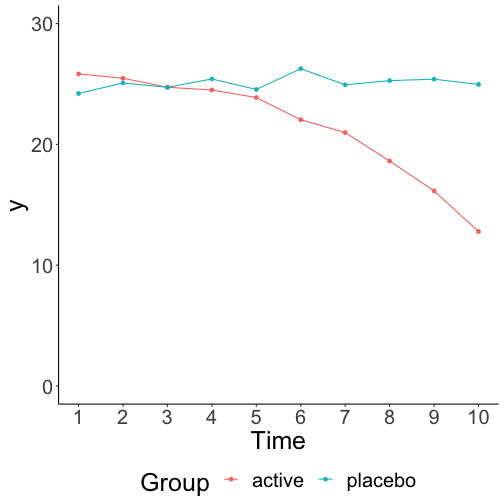
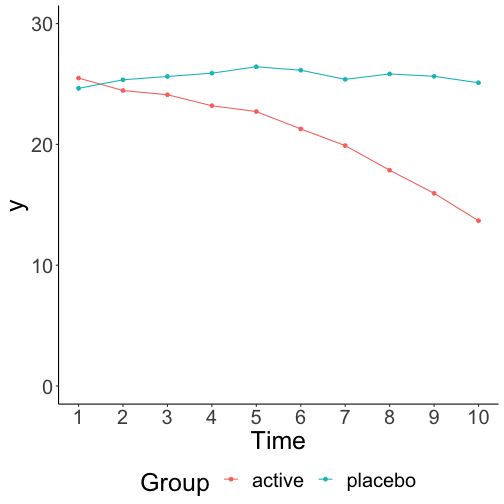
update

Changed region(s): [[0.1488, 0.119, 0.8631, 0.3869], [0.625, 0.119, 0.9524, 0.1786], [0.8631, 0.3869, 0.9524, 0.4762]]

diff --git a/Folien.html b/Folien.html
@@ -111,10 +111,10 @@ lmer(y ~ t * group + (1|id), data = df)
 
 ```
 ##                Estimate Std. Error       df t value Pr(&gt;|t|)
-## (Intercept)      29.023      1.001  197.251  29.005    0.000
-## t                -1.368      0.067 1348.000 -20.464    0.000
-## groupplacebo     -4.340      1.415  197.251  -3.067    0.002
-## t:groupplacebo    1.440      0.095 1348.000  15.241    0.000
+## (Intercept)      27.812      0.943  201.121  29.493    0.000
+## t                -1.263      0.065 1348.000 -19.447    0.000
+## groupplacebo     -2.390      1.334  201.121  -1.792    0.075
+## t:groupplacebo    1.296      0.092 1348.000  14.109    0.000
 ```
 
 * signifikante Überlegenheit der aktiven gegenüber Placebogruppe
@@ -346,8 +346,8 @@ head(data_cluster, 2)
 
 ```
 ##   Item1 Item2 Item3 Item4 Item5 Item6 Item7 Item8 Item9 Item10
-## 1  3.12  3.26  2.71  1.40  2.97  1.79  3.33  0.88  0.94  -1.07
-## 2  2.98  3.27  2.68  1.47  1.54 -0.38  1.95  2.22  1.32   1.07
+## 1  2.95  2.19  2.48  3.97  0.99  1.41  2.17  2.15  0.49   3.50
+## 2  3.06  3.83  3.65  2.31  2.90  1.72  0.93 -0.52  0.51   1.58
 ```
 
 Beispielcode:
@@ -484,16 +484,16 @@ head(df, 10)
 
 ```
 ##    t id        y
-## 1  1  1 22.16084
-## 2  2  1 22.94598
-## 3  3  1 21.40208
-## 4  1  2 23.99123
-## 5  2  2 18.57353
-## 6  3  2 21.47158
-## 7  1  3 23.25675
-## 8  2  3 25.74629
-## 9  3  3 19.46554
-## 10 1  4 31.06219
+## 1  1  1 25.40166
+## 2  2  1 25.57062
+## 3  3  1 15.93133
+## 4  1  2 24.38786
+## 5  2  2 22.21372
+## 6  3  2 14.39663
+## 7  1  3 26.84166
+## 8  2  3 16.81819
+## 9  3  3 26.07055
+## 10 1  4 32.17944
 ```
 ]
 
@@ -576,7 +576,7 @@ class: top, left
 class: top, left
 ### Units of Analysis
 
-#### Lösungsansatz: Time-Series Modeling - Dynamic Time Warping
+#### Time-Series Modeling - Dynamic Time Warping
 
 **Vorteile:**
 
@@ -605,9 +605,9 @@ head(ts_sim_df, 3)
 
 ```
 ##   nodep_V1 nodep_V2 nodep_V3 nodep_V4 nodep_V5   dep_V1   dep_V2   dep_V3   dep_V4   dep_V5
-## 1 6.575727 5.225222 5.097103 9.042683 5.803125 7.673224 6.665698 5.249806 8.576838 6.446484
-## 2 7.170461 6.053103 6.172585 8.913733 6.035214 5.952480 5.821827 6.890124 6.975446 9.118886
-## 3 5.549862 5.560508 7.451713 9.563362 5.772214 6.054278 5.418546 7.456762 6.191524 7.299504
+## 1 6.202435 6.671782 6.487326 5.313489 6.876857 5.534393 5.047133 6.245207 5.580423 8.969506
+## 2 6.600054 5.266929 6.717761 6.080898 6.212038 5.643375 5.726632 6.326248 5.735229 8.453706
+## 3 6.810013 6.798338 5.601576 6.172589 5.288736 5.676489 5.774688 6.038278 5.755343 9.473045
 ```
 
 Beispielcode:
@@ -798,6 +798,27 @@ summary(fit)
 &lt;img src="bilder/sem2.png" width="500px" /&gt;
 ]
 ]
+
+---
+class: top, left
+### Multivariate pattern
+
+#### Netzwerkanalyse
+
+.center[
+&lt;img src="bilder/nets.png" width="1000px" /&gt;
+]
+
+* Analyse psychischer Phänomene auf dem Systemlevel
+
+* Exploration hoch dimensionaler Daten ohne theoretische Vorannahmen (wie EFA, o.ä.)
+
+* Besonderheit: paarweise Abhängigkeiten (pairwise conditional dependencies, PCD)
+
+* PCD = probabilistisch abhängig konditional auf alle andere Variablen 
+
+* joint probability distribution (graphical model - pairwise Markov random field, PMRF)
+
 ---
 class: top, left
 ### Multivariate pattern
@@ -811,6 +832,20 @@ class: top, left
 ]
 
 .pull-right[
+* node selection: eher inhaltlich als methodisch
+
+* edge selection methods (PMRF creation): 
+
+  * fit indices
+  * significance testing
+  * cross-validation
+  * regularized estimation (LASSO)
+  
+* node centrality:
+
+  * node strength (sum of absolute edge weights of edges per node)
+  * closeness (distance between the node and all other nodes)
+  * betweenness (how often a node lies on the shortest path connecting two other nodes)
 ]
 ---
 class: top, left
@@ -932,8 +967,21 @@ class: top, left
 ### Take-aways
 
 .full-width[.content-box-gray[
+* RCTs sind essentielle Experimente zur Wirksamkeitsüberprüfung von Therapien und als solche nicht zu ersetzen
 
+* Ziel von Re-Analysen: Aufschlüsseln von Heterogenität im Therapieansprechen (Tailored Treatments)
 
+* Aus Wirksamkeitsanalysen abgeleitete Maße haben konzeptuelle Schwächen bzgl. Erklärung der Heterogenität 
+
+* Analyse von Summenscores vs. separate Analyse von Symtptomsystemen
+
+* Analyse von querschnittlicher Response/Remission vs. dynamische Verlaufsklassen  
+
+* stationäre Messungen vs. Zeitreihen und Zeitreihenanalyse
+
+* Störungsmodellierung als Schweregradseinschätzung/kategoriale Diagnose vs. auf dem Systemlevel (Netzwerke)
+
+* Explanative Modellierung vs. Prädiktive Modellierung (oder Kombination)
 ]
 ]
 
